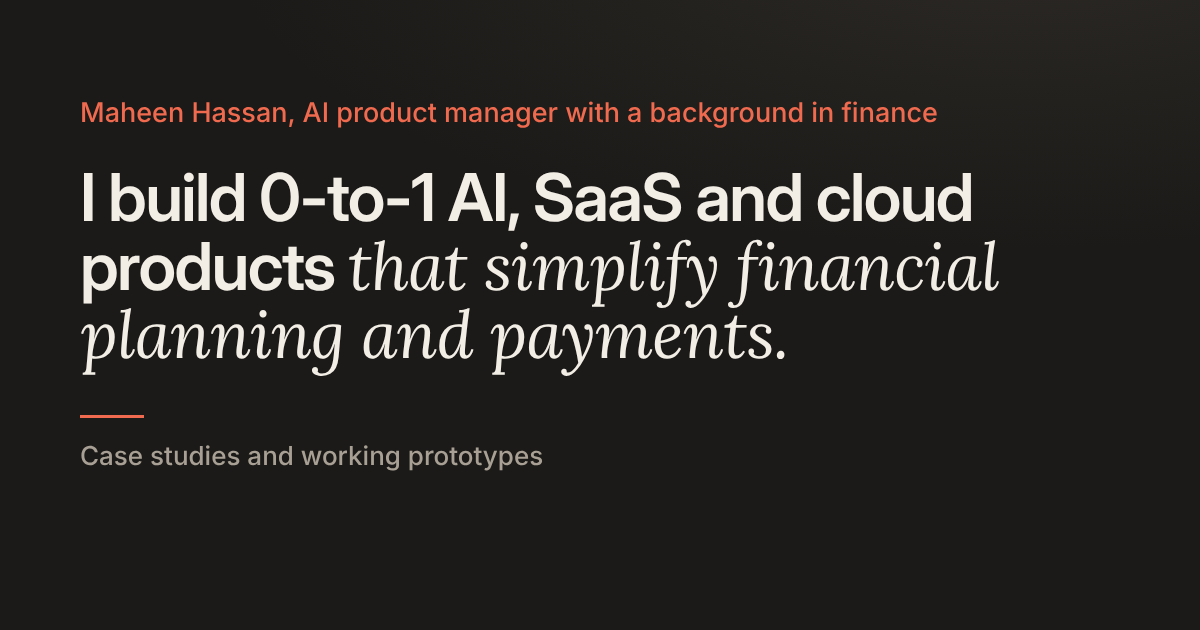
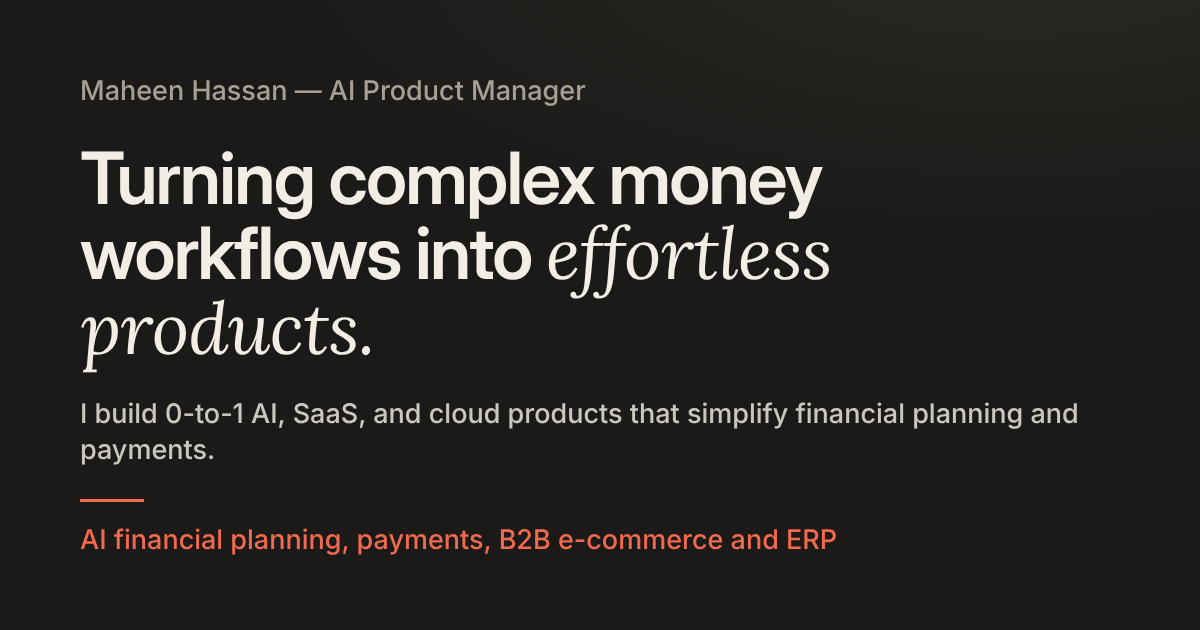
New hero and an ERP filter
Hero: 'Turning complex money workflows into effortless products.' with the
coral tagline and a short grey line; shorter results labels, section intros
and capabilities; updated sharing image. Adds an 'ERP and operations' filter.

Claude-Session: https://claude.ai/code/session_0135J8VikkbGhmDBcThBYk67

diff --git a/src/pages/Home.tsx b/src/pages/Home.tsx
@@ -6,10 +6,10 @@ import { creditLabel, type Credit } from '../content/types';
 import { demos, featuredDemo } from '../content/lab';
 
 const proof: { figure: string; label: string; slug?: string; credit: Credit }[] = [
-  { figure: '16 wks', label: 'Zero to an internal MVP of an AI career and financial planning platform', slug: 'global-pathways-ai', credit: 'led' },
-  { figure: '40+', label: 'University courses now using the AI platform I piloted', slug: 'ggu-edvisor-ai', credit: 'contributed' },
-  { figure: '60%', label: 'Less processing time after I automated fund reconciliation at Citco', credit: 'owned' },
-  { figure: '2', label: 'First-place awards for an AI multi-agent prototype', slug: 'pmi-career-quest', credit: 'team' },
+  { figure: '16 wks', label: 'To an internal MVP of an AI financial planning platform', slug: 'global-pathways-ai', credit: 'led' },
+  { figure: '40+', label: 'Courses now using the AI platform I piloted', slug: 'ggu-edvisor-ai', credit: 'contributed' },
+  { figure: '60%', label: 'Less processing time after I automated reconciliation', credit: 'owned' },
+  { figure: '2', label: 'First-place awards for an AI prototype', slug: 'pmi-career-quest', credit: 'team' },
 ];
 
 type Proof = { slug?: string; label?: string; href?: string; text: string };
@@ -62,12 +62,13 @@ export default function Home() {
       {/* Who I am, what makes me different, and the proof */}
       <section className="grid gap-10 pb-16 pt-12 sm:pt-16 lg:grid-cols-12 lg:items-stretch lg:gap-12 lg:pb-20 lg:pt-20" aria-labelledby="hero-title">
         <div className="flex flex-col justify-center lg:col-span-7">
-          <p className="text-[15px] text-ledger">Maheen Hassan, AI product manager with a background in finance</p>
-          <h1 id="hero-title" tabIndex={-1} className="display mt-4 text-[38px] font-semibold leading-[1.02] outline-none sm:text-[54px] lg:text-[62px]">
-            I build 0-to-1 AI, SaaS and cloud products <em className="font-serif font-normal italic tracking-[-0.02em] text-ink/95">that simplify financial planning and payments.</em>
+          <p className="text-[15px] text-muted">Maheen Hassan — AI Product Manager</p>
+          <h1 id="hero-title" tabIndex={-1} className="display mt-4 text-[42px] font-semibold leading-[1.02] outline-none sm:text-[58px] lg:text-[64px]">
+            Turning complex money workflows into <em className="font-serif font-normal italic tracking-[-0.02em] text-ink/95">effortless products.</em>
           </h1>
-          <p className="mt-6 max-w-[34em] text-[17px] leading-relaxed text-ink/80 sm:text-[18px]">
-            I started in tax and fund accounting at PwC and Citco, where I automated reconciliation on AWS-based financial platforms. Now I build AI products that help people plan careers, education costs and loans, from customer research and LLM integration to delivery. Six years across FinTech, EdTech, HRTech and B2B SaaS.
+          <p className="mt-6 max-w-[30em] text-[20px] font-medium leading-snug text-ledger sm:text-[22px]">
+            I build 0-to-1 AI, SaaS, and cloud products that simplify financial planning and payments.{' '}
+            <span className="text-ink/70">Backed by an earlier career in tax and automated fund accounting at PwC and Citco.</span>
           </p>
           <div className="mt-8 flex flex-wrap gap-3">
             <a href="#work" className="inline-flex min-h-12 items-center rounded-full bg-ledger px-5 text-[15px] font-medium text-night transition hover:brightness-110">See the work</a>
@@ -102,7 +103,7 @@ export default function Home() {
 
       {/* Project discovery */}
       <section className="border-t border-rule pt-12 sm:pt-16" aria-labelledby="work-heading">
-        <SectionHeading id="work-heading" title="Selected work" intro="Six products from 2016 to now, from student finance and B2B ordering to AI planning platforms. Each opens a case study with the problem, the evidence, the decision and the outcome.">
+        <SectionHeading id="work-heading" title="Selected work" intro="Six products, each with the problem, the decision and the result.">
           <FilterChips value={filter} onChange={setFilter} count={count} />
         </SectionHeading>
         <ProjectMosaic projects={projects} filter={filter} />
@@ -110,30 +111,27 @@ export default function Home() {
 
       {/* Capabilities, each shown through real projects */}
       <section className="mt-24 border-t border-rule pt-12 sm:pt-16" aria-labelledby="capabilities">
-        <SectionHeading id="capabilities" title="What I bring to a product team" intro="Each capability links to the project that shows it." />
+        <SectionHeading id="capabilities" title="What I bring to a product team" intro="Each links to the project that proves it." />
         <div className="grid gap-5 lg:grid-cols-3">
           {groups.map((g) => (
             <article key={g.name} className="flex flex-col rounded-[10px] border border-rule bg-sheet p-6">
               <h3 className="display text-[21px] font-semibold leading-snug tracking-[-0.02em]">{g.name}</h3>
               <p className="mt-2 text-[15px] leading-relaxed text-muted">{g.line}</p>
-              <ul className="mt-5 space-y-4">
+              <ul className="mt-5 space-y-2.5">
                 {g.items.map((c) => (
                   <li key={c.name} className="text-[14.5px] leading-relaxed">
-                    <p className="font-semibold text-ink">{c.name}</p>
-                    <p className="mt-0.5 text-ink/75">
-                      {c.proof.map((pr, i) => {
-                        const proj = pr.slug ? getProject(pr.slug) : undefined;
-                        const label = proj ? proj.org : pr.label;
-                        const href = proj ? `#work-${proj.slug}` : pr.href;
-                        return (
-                          <span key={i}>
-                            {i > 0 && '; '}
-                            {href ? <a className="link font-medium text-ink/90" href={href}>{label}</a> : <span className="font-medium text-ink/90">{label}</span>}: {pr.text}
-                          </span>
-                        );
-                      })}
-                      .
-                    </p>
+                    {(() => {
+                      const pr = c.proof[0]!;
+                      const proj = pr.slug ? getProject(pr.slug) : undefined;
+                      const href = proj ? `#work-${proj.slug}` : pr.href;
+                      const label = proj ? proj.org : pr.label;
+                      return (
+                        <p>
+                          <span className="font-semibold text-ink">{c.name}</span> <span className="text-muted">·</span>{' '}
+                          {href ? <a className="link text-ink/75" href={href}>{label}</a> : <span className="text-ink/75">{label}</span>}
+                        </p>
+                      );
+                    })()}
                   </li>
                 ))}
               </ul>
@@ -145,7 +143,7 @@ export default function Home() {
 
       {/* Product Lab */}
       <section className="mt-24 border-t border-rule pt-12 sm:pt-16" aria-labelledby="lab-heading">
-        <SectionHeading id="lab-heading" title="Product Lab" intro="Working prototypes, each built to show one product principle. Start with the relocation planner: change a household’s savings and watch the routes, costs and funding gaps recalculate.">
+        <SectionHeading id="lab-heading" title="Product Lab" intro="Working prototypes. Start with the relocation planner.">
           <a href="#lab" className="inline-flex min-h-11 items-center rounded-full border border-ink/20 px-4 text-[14px] font-medium hover:border-ink/60">Open the Lab</a>
         </SectionHeading>
         <a href={featuredDemo.href} className="mb-5 grid gap-4 rounded-[10px] border border-ledger/40 bg-tile p-6 transition-colors hover:border-ledger md:grid-cols-[1fr_1.2fr] md:gap-10 sm:p-8">

diff --git a/src/content/types.ts b/src/content/types.ts
@@ -52,11 +52,12 @@ export interface CardSummary {
   relevance: string;
 }
 
-export type Domain = 'ai' | 'fin' | 'saas';
+export type Domain = 'ai' | 'fin' | 'saas' | 'erp';
 export const domainLabel: Record<Domain, string> = {
   ai: 'AI and LLM products',
   fin: 'FinTech and commerce',
   saas: 'SaaS platforms',
+  erp: 'ERP and operations',
 };
 
 export interface Panel {

diff --git a/src/content/projects.ts b/src/content/projects.ts
@@ -287,7 +287,7 @@ export const projects: CaseStudy[] = [
     year: 2022,
     tier: 'supporting',
     pillars: ['technical', 'impact'],
-    domains: ['saas', 'fin'],
+    domains: ['saas', 'fin', 'erp'],
     short: 'An operations and ERP platform for fitness businesses',
     proves: 'Design for the operator, carried through to enterprise onboarding.',
     summary:

diff --git a/src/components/Projects.tsx b/src/components/Projects.tsx
@@ -3,7 +3,7 @@ import { ProjectPanel } from './Visuals';
 import { domainLabel, type CaseStudy, type Domain } from '../content/types';
 
 export type Filter = 'all' | Domain;
-const filters: Filter[] = ['all', 'ai', 'fin', 'saas'];
+const filters: Filter[] = ['all', 'ai', 'fin', 'saas', 'erp'];
 
 export function useProjectFilter() {
   return useState<Filter>('all');
